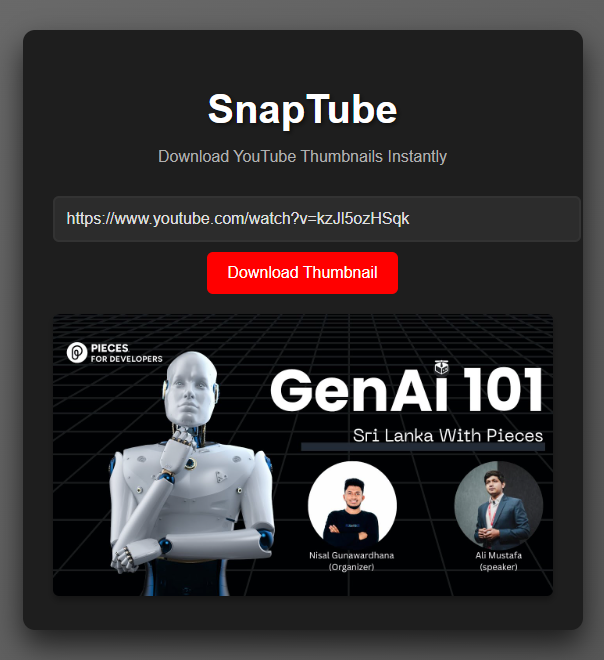
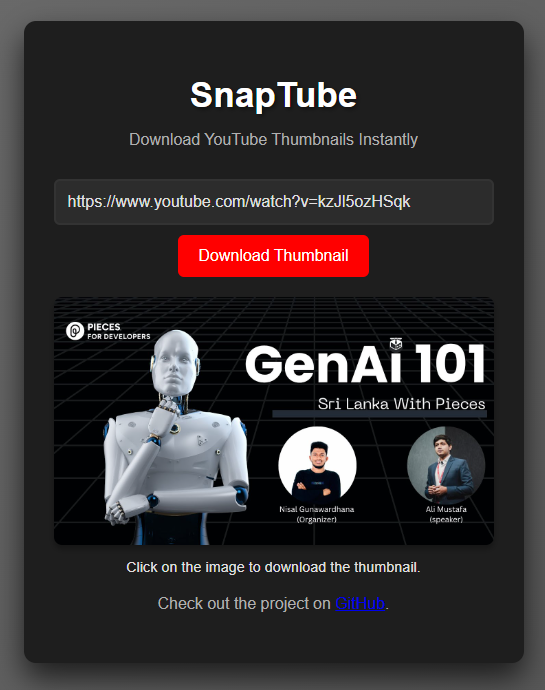
feat: Add SEO meta tags and GitHub repository link

diff --git a/index.html b/index.html
@@ -4,6 +4,16 @@
     <meta charset="UTF-8">
     <meta name="viewport" content="width=device-width, initial-scale=1.0">
     <title>SnapTube - YouTube Thumbnail Downloader</title>
+    <meta name="description" content="SnapTube is a simple, lightweight web application to download YouTube video thumbnails effortlessly. Enter a YouTube video URL to preview and download the thumbnail.">
+    <meta name="keywords" content="YouTube, Thumbnail Downloader, SnapTube, Download YouTube Thumbnails, YouTube Tools, SnapTube App">
+    <meta name="author" content="SnapTube">
+    <meta name="robots" content="index, follow">
+    <meta property="og:title" content="SnapTube - YouTube Thumbnail Downloader">
+    <meta property="og:description" content="SnapTube is a simple, lightweight web application to download YouTube video thumbnails effortlessly.">
+    <meta property="og:url" content="https://hirunaofficial.github.io/snap-tube/">
+    <meta name="twitter:card" content="summary">
+    <meta name="twitter:title" content="SnapTube - YouTube Thumbnail Downloader">
+    <meta name="twitter:description" content="SnapTube is a simple, lightweight web application to download YouTube video thumbnails effortlessly.">
     <link rel="stylesheet" href="styles.css">
 </head>
 <body>
@@ -13,6 +23,9 @@
         <input type="text" id="videoUrl" placeholder="Enter YouTube Video URL">
         <button id="downloadBtn">Download Thumbnail</button>
         <div id="thumbnailDisplay" class="thumbnail-display"></div>
+        <div class="github-repo">
+            <p>Check out the project on <a href="https://github.com/hirunaofficial/snap-tube" target="_blank">GitHub</a>.</p>
+        </div>
     </div>
     <script src="script.js"></script>
 </body>
